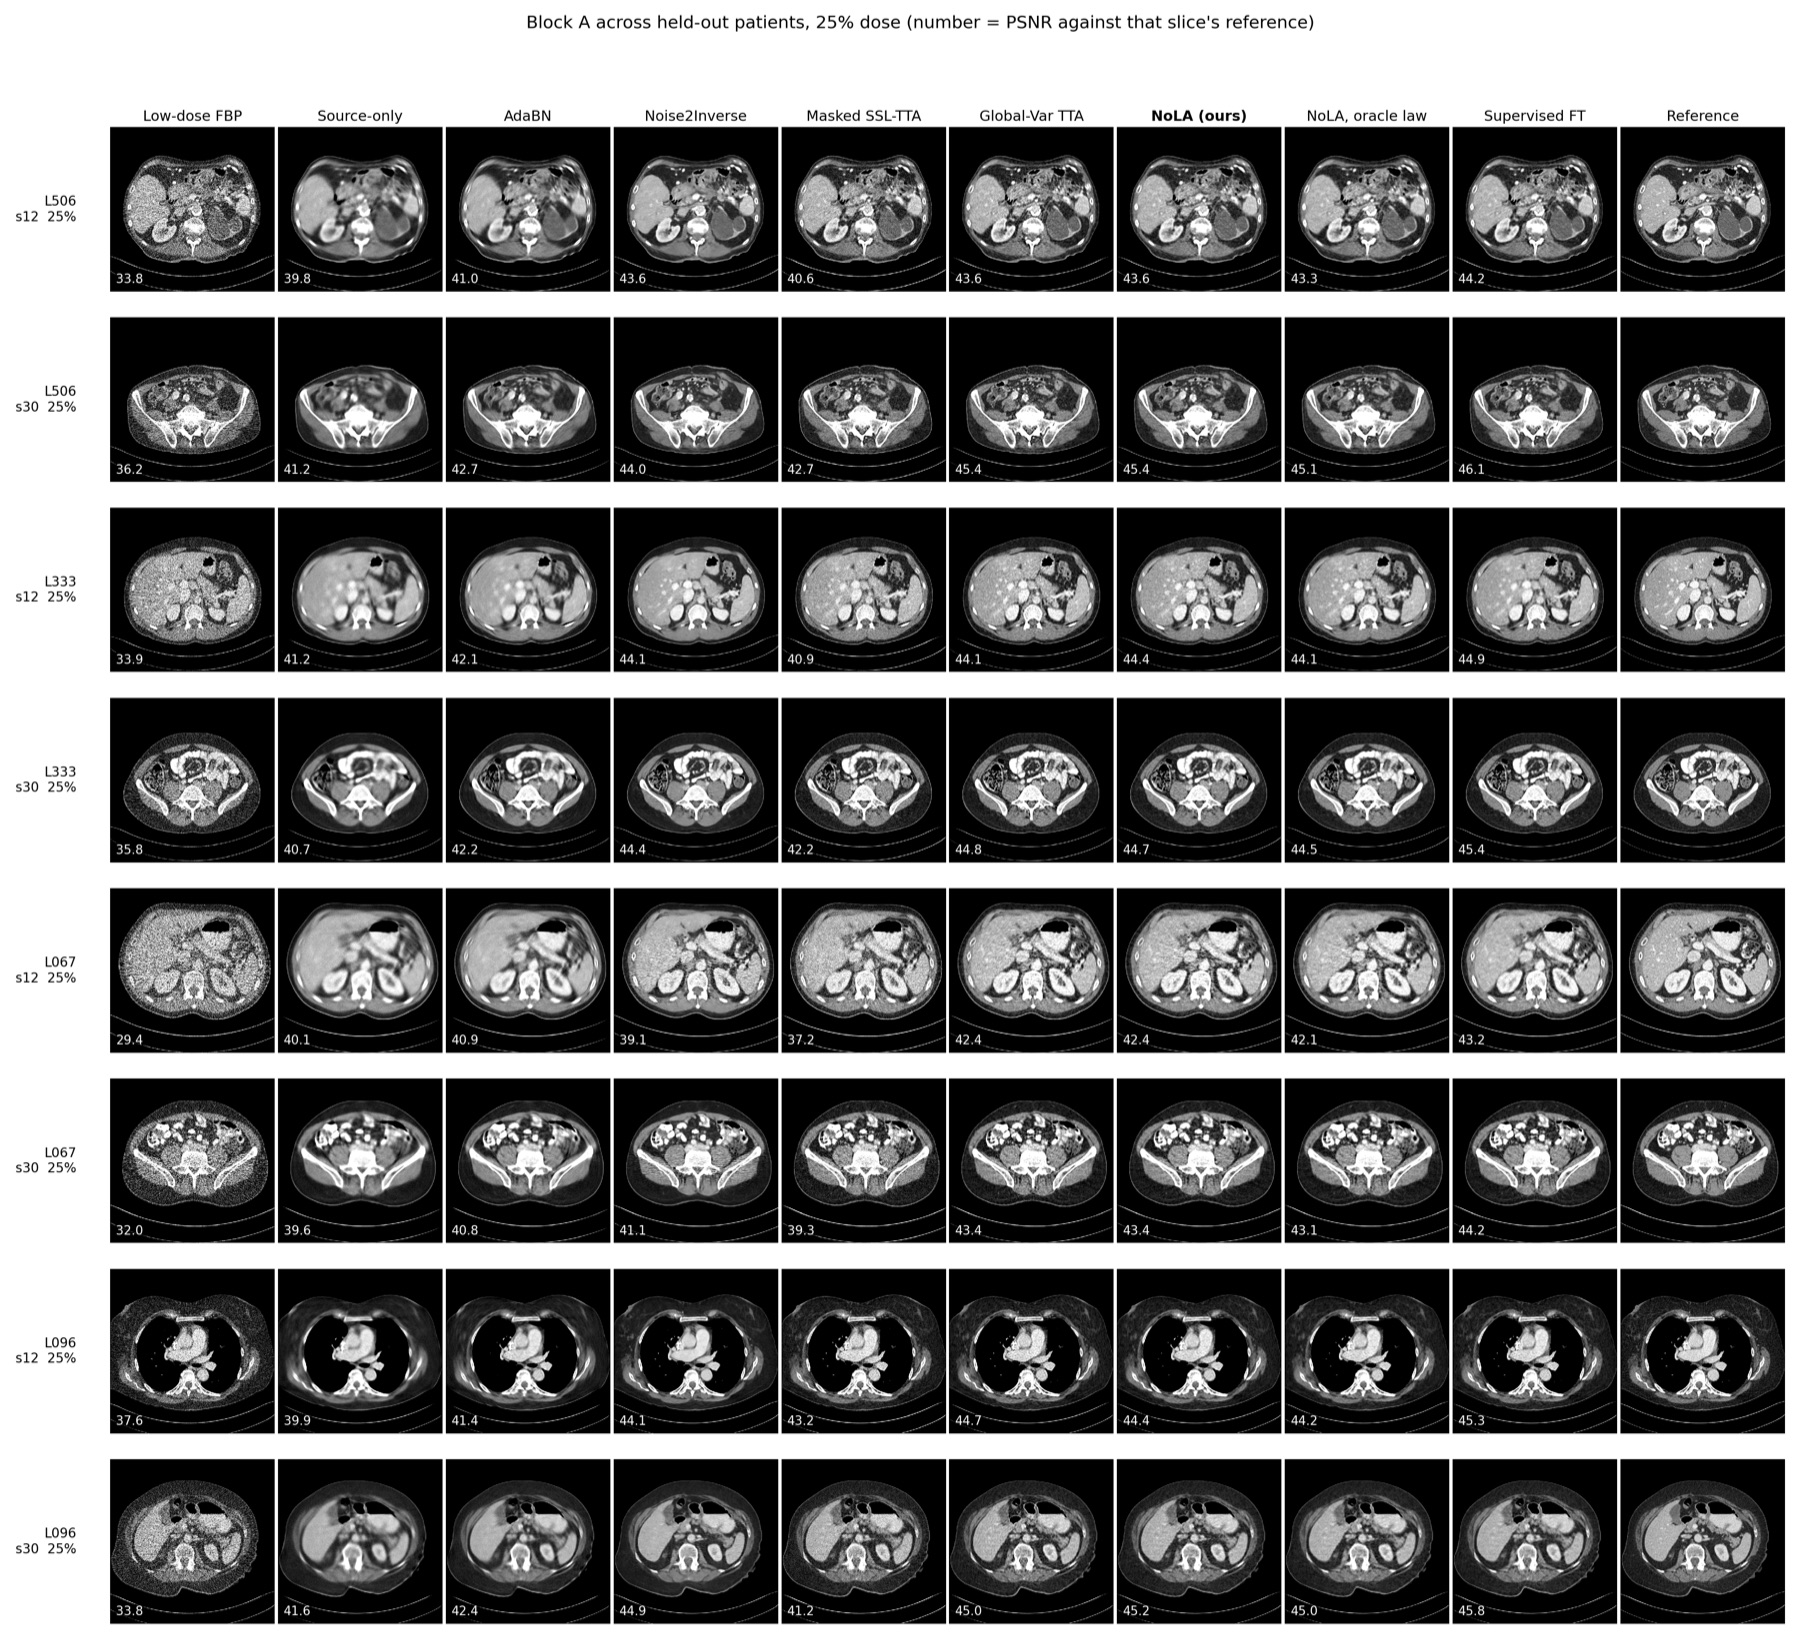
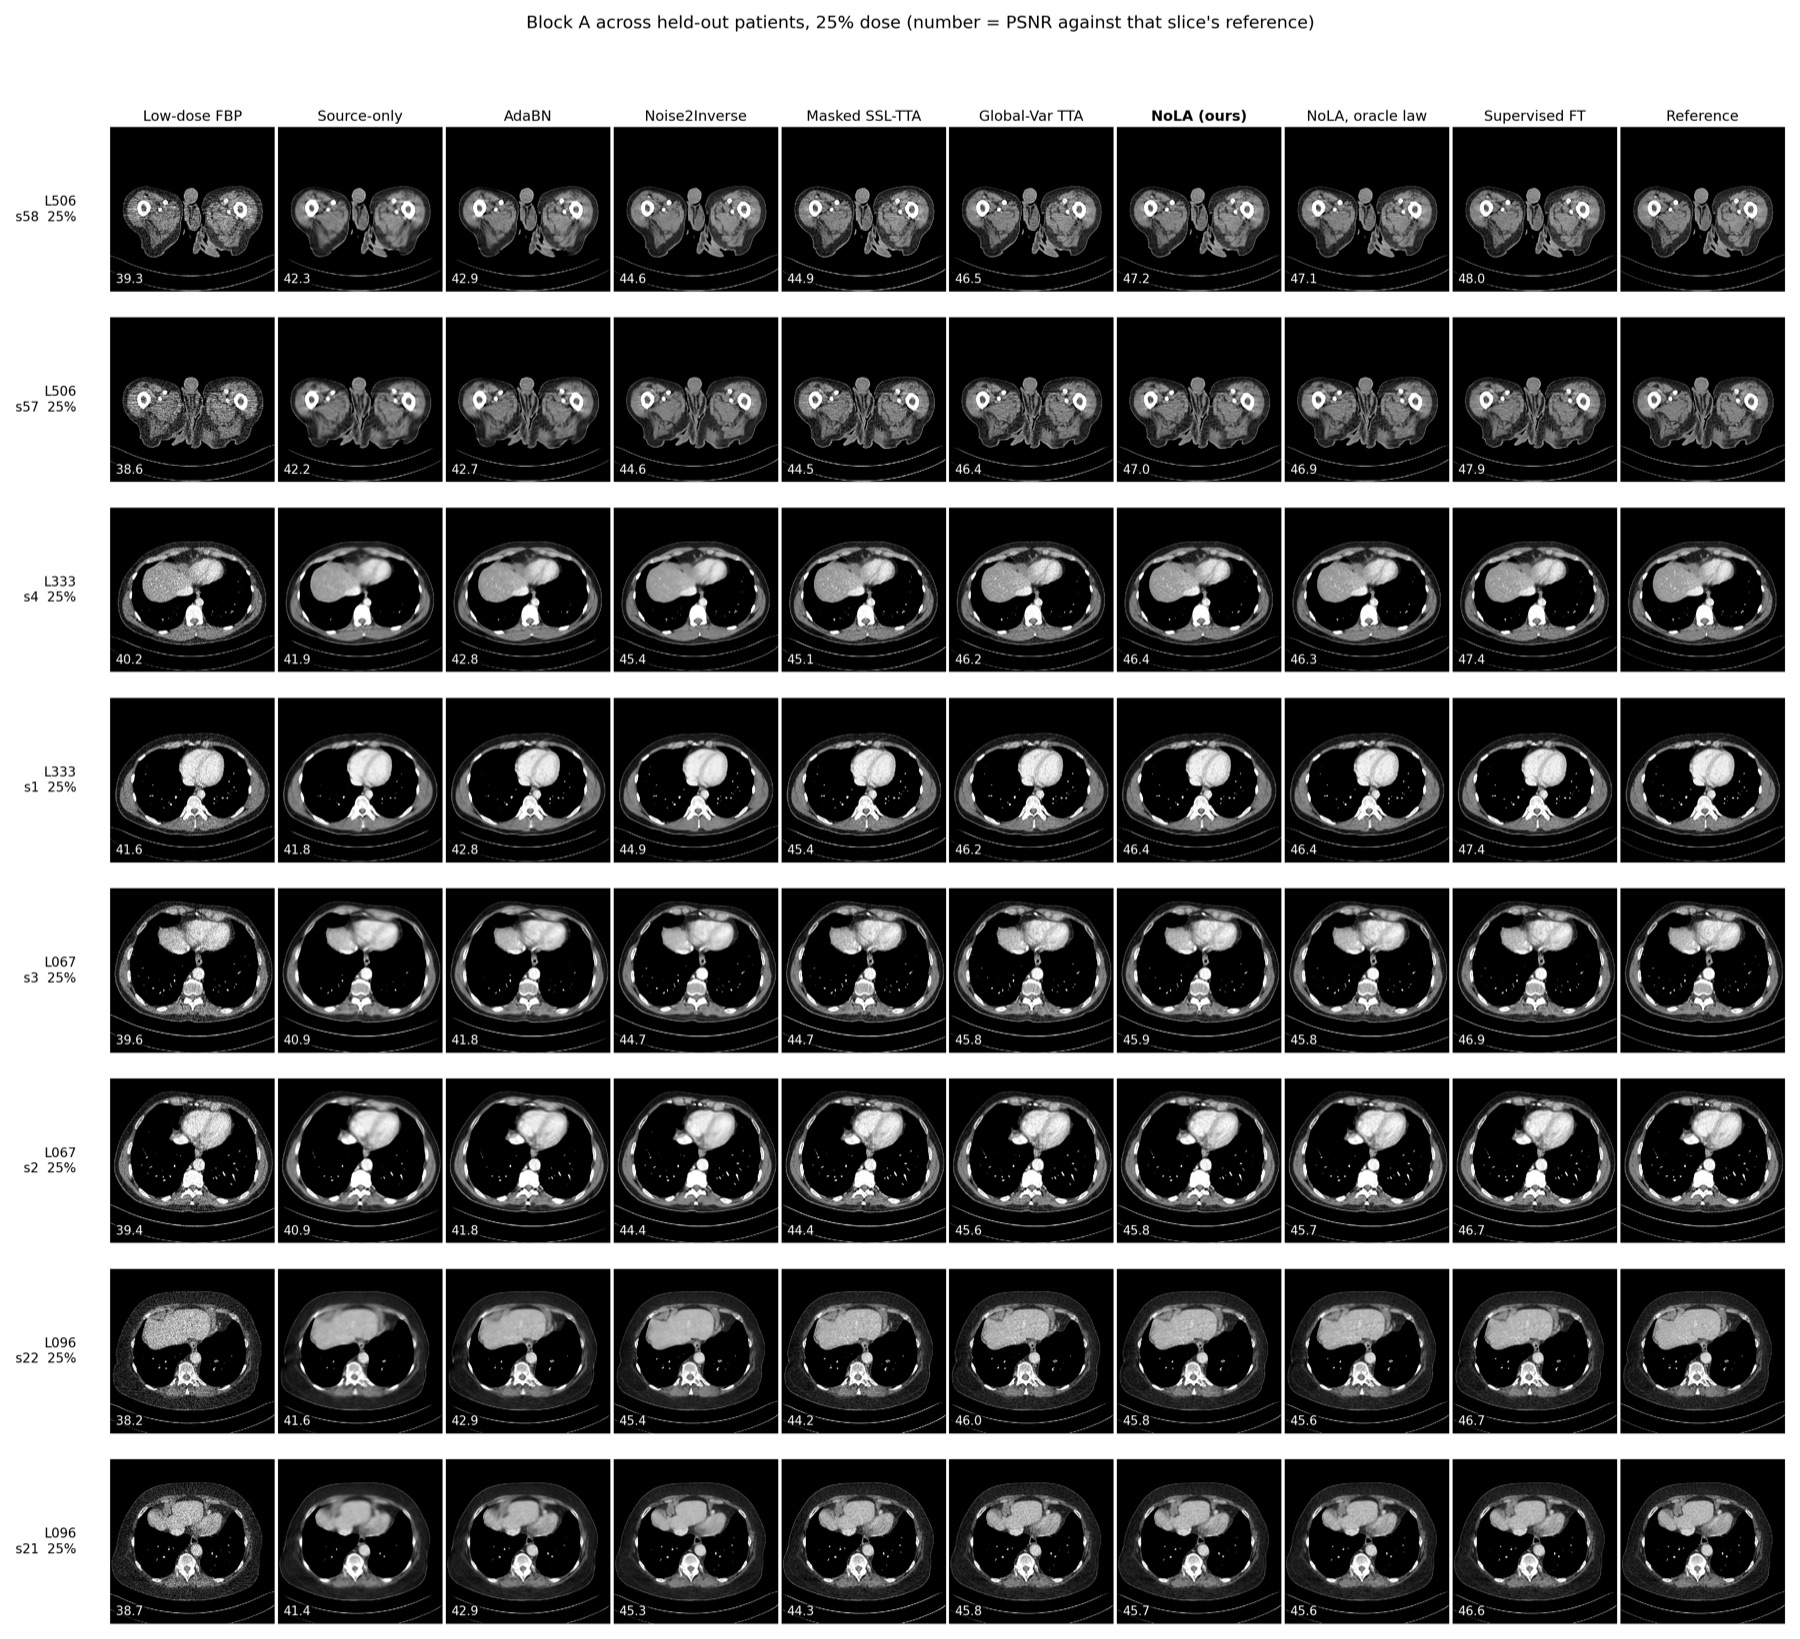
10% dose with the final objective; galleries on each patient's best slice
Adds the 10% stress test back, now run with the final (moment-only) objective
and both controls: 38.91 dB against source-only's 40.55, worse on three of
four patients, and +2.22 dB over the previous formulation on every slice.
Every label-free method degrades the source model at this dose.

Qualitative figures now show the slice where NoLA scores highest (fig3: L506
slice 58, 47.19 dB) and each patient's two best slices in the galleries. The
dose-10 gallery title was hard-coded and still read "32%, -3.9 dB" from the
previous objective after the final one measured 46%, -1.65 dB; it is now
computed from the eval files and states that rows are best-case.

diff --git a/docs/index.html b/docs/index.html
@@ -283,9 +283,9 @@ footer a{color:var(--accent)}
   noise <i>is</i> noise, whereas visible anatomy is structure the method
   deleted.</p></div>
   <figure>
-    <img src="assets/fig3_qualitative_L506_s30.jpg" alt="Qualitative comparison">
-    <figcaption><b>Cross-system transfer on one held-out slice</b> (L506, 25%
-    dose). Rows: reconstruction, magnified ROI, signed error against
+    <img src="assets/fig3_qualitative_L506_s58.jpg" alt="Qualitative comparison">
+    <figcaption><b>Cross-system transfer on one held-out slice</b> (L506, slice 58, 25%
+    dose — the slice where NoLA scores highest). Rows: reconstruction, magnified ROI, signed error against
     FBP(clean sinogram) at ±120 HU, and radial noise power spectrum in flat
     tissue. The source model and AdaBN over-smooth, leaving anatomical
     boundaries in their error maps. NoLA suppresses these structured errors and
@@ -296,8 +296,8 @@ footer a{color:var(--accent)}
   <figure>
     <img src="assets/figS1_gallery_blockA.jpg" alt="Gallery across patients">
     <figcaption><b>All methods, multiple slices and patients (25% dose).</b> Each
-    row is one held-out slice, each column one method, at a fixed soft-tissue
-    window. Per-panel numbers are that slice's PSNR against its own
+    row is one of the two slices per held-out patient on which NoLA scores
+    highest; each column one method, at a fixed soft-tissue window. Per-panel numbers are that slice's PSNR against its own
     reference.</figcaption>
   </figure>
   <figure>
@@ -385,6 +385,25 @@ footer a{color:var(--accent)}
   corrupts the structure. Among the label-free methods that match the
   <i>conditional</i> law, the two do track each other; that is the regime the
   method is proposed for.</div>
+</div></div></section>
+
+<section id="dose10"><div class="wrap"><div class="narrow">
+  <h2>The 10% dose stress test</h2>
+  <p>At 10% dose every label-free method degrades the frozen source model. The
+  final objective is the least harmful — <b>38.91 dB against source-only's
+  40.55 (−1.65 dB)</b>, worse on three of four patients, better on one — and
+  <b>+2.22 dB better than the previous formulation</b> on 100% of slices: the
+  whiteness and anchor terms were responsible for most of the earlier failure.
+  Global-Variance TTA is actively destructive here (max|ρ| 0.834, the most
+  correlated residual of any method). Only supervised fine-tuning helps
+  (+2.27 dB). The mismatch score flags this regime in advance: D = 1.05,
+  the borderline the controlled grid identified.</p>
+  <figure>
+    <img src="assets/figS3_dose10.jpg" alt="10% dose gallery">
+    <figcaption><b>10% dose, each patient's best NoLA slice.</b> Deliberately the
+    best case, and labelled as such in the title: on the typical slice NoLA is
+    below source-only at this dose.</figcaption>
+  </figure>
 </div></div></section>
 
 <section><div class="wrap"><div class="narrow">
@@ -516,7 +535,7 @@ function drawLaw(){
   vd.innerHTML="<b>Shift magnitude D = "+D.toFixed(2)+"</b> — "+
     (D>1.3?"large mismatch: adaptation is expected to help.":
      D<0.9?"low mismatch: adaptation is unreliable here and can hurt.":
-     "borderline: the grid shows mixed outcomes near D ≈ 1.")+
+     "borderline — the 10% dose case sits here at D = 1.05, and every label-free method degrades there.")+
     "<br><span style='color:var(--mut);font-size:14px'>The dashed line is the best "+
     "possible <i>rescaling</i> of the source law. It still misses the target by a "+
     "factor of "+spread.toFixed(1)+" across the signal range, because rescaling "+
@@ -538,7 +557,7 @@ function drawGrid(){
   [0.5,1,1.5,2,2.5].forEach(g=>{const xx=X(g);
     s.appendChild(el("line",{x1:xx,x2:xx,y1:T,y2:H-B,class:"gr"}));
     const t=el("text",{x:xx,y:H-B+16,class:"tx","text-anchor":"middle"});t.textContent=g;s.appendChild(t);});
-  [[2.09,"25% dose"]].forEach(([d,lab])=>{
+  [[2.09,"25% dose"],[1.05,"10% dose"]].forEach(([d,lab])=>{
     s.appendChild(el("line",{x1:X(d),x2:X(d),y1:T,y2:H-B,stroke:OURS,
       "stroke-width":1,"stroke-dasharray":"4 4",opacity:.55}));
     const t=el("text",{x:X(d)+5,y:T+12,class:"tx",fill:OURS});t.textContent=lab;s.appendChild(t);});

diff --git a/docs/index.template.html b/docs/index.template.html
@@ -283,9 +283,9 @@ footer a{color:var(--accent)}
   noise <i>is</i> noise, whereas visible anatomy is structure the method
   deleted.</p></div>
   <figure>
-    <img src="assets/fig3_qualitative_L506_s30.jpg" alt="Qualitative comparison">
-    <figcaption><b>Cross-system transfer on one held-out slice</b> (L506, 25%
-    dose). Rows: reconstruction, magnified ROI, signed error against
+    <img src="assets/fig3_qualitative_L506_s58.jpg" alt="Qualitative comparison">
+    <figcaption><b>Cross-system transfer on one held-out slice</b> (L506, slice 58, 25%
+    dose — the slice where NoLA scores highest). Rows: reconstruction, magnified ROI, signed error against
     FBP(clean sinogram) at ±120 HU, and radial noise power spectrum in flat
     tissue. The source model and AdaBN over-smooth, leaving anatomical
     boundaries in their error maps. NoLA suppresses these structured errors and
@@ -296,8 +296,8 @@ footer a{color:var(--accent)}
   <figure>
     <img src="assets/figS1_gallery_blockA.jpg" alt="Gallery across patients">
     <figcaption><b>All methods, multiple slices and patients (25% dose).</b> Each
-    row is one held-out slice, each column one method, at a fixed soft-tissue
-    window. Per-panel numbers are that slice's PSNR against its own
+    row is one of the two slices per held-out patient on which NoLA scores
+    highest; each column one method, at a fixed soft-tissue window. Per-panel numbers are that slice's PSNR against its own
     reference.</figcaption>
   </figure>
   <figure>
@@ -385,6 +385,25 @@ footer a{color:var(--accent)}
   corrupts the structure. Among the label-free methods that match the
   <i>conditional</i> law, the two do track each other; that is the regime the
   method is proposed for.</div>
+</div></div></section>
+
+<section id="dose10"><div class="wrap"><div class="narrow">
+  <h2>The 10% dose stress test</h2>
+  <p>At 10% dose every label-free method degrades the frozen source model. The
+  final objective is the least harmful — <b>38.91 dB against source-only's
+  40.55 (−1.65 dB)</b>, worse on three of four patients, better on one — and
+  <b>+2.22 dB better than the previous formulation</b> on 100% of slices: the
+  whiteness and anchor terms were responsible for most of the earlier failure.
+  Global-Variance TTA is actively destructive here (max|ρ| 0.834, the most
+  correlated residual of any method). Only supervised fine-tuning helps
+  (+2.27 dB). The mismatch score flags this regime in advance: D = 1.05,
+  the borderline the controlled grid identified.</p>
+  <figure>
+    <img src="assets/figS3_dose10.jpg" alt="10% dose gallery">
+    <figcaption><b>10% dose, each patient's best NoLA slice.</b> Deliberately the
+    best case, and labelled as such in the title: on the typical slice NoLA is
+    below source-only at this dose.</figcaption>
+  </figure>
 </div></div></section>
 
 <section><div class="wrap"><div class="narrow">
@@ -516,7 +535,7 @@ function drawLaw(){
   vd.innerHTML="<b>Shift magnitude D = "+D.toFixed(2)+"</b> — "+
     (D>1.3?"large mismatch: adaptation is expected to help.":
      D<0.9?"low mismatch: adaptation is unreliable here and can hurt.":
-     "borderline: the grid shows mixed outcomes near D ≈ 1.")+
+     "borderline — the 10% dose case sits here at D = 1.05, and every label-free method degrades there.")+
     "<br><span style='color:var(--mut);font-size:14px'>The dashed line is the best "+
     "possible <i>rescaling</i> of the source law. It still misses the target by a "+
     "factor of "+spread.toFixed(1)+" across the signal range, because rescaling "+
@@ -538,7 +557,7 @@ function drawGrid(){
   [0.5,1,1.5,2,2.5].forEach(g=>{const xx=X(g);
     s.appendChild(el("line",{x1:xx,x2:xx,y1:T,y2:H-B,class:"gr"}));
     const t=el("text",{x:xx,y:H-B+16,class:"tx","text-anchor":"middle"});t.textContent=g;s.appendChild(t);});
-  [[2.09,"25% dose"]].forEach(([d,lab])=>{
+  [[2.09,"25% dose"],[1.05,"10% dose"]].forEach(([d,lab])=>{
     s.appendChild(el("line",{x1:X(d),x2:X(d),y1:T,y2:H-B,stroke:OURS,
       "stroke-width":1,"stroke-dasharray":"4 4",opacity:.55}));
     const t=el("text",{x:X(d)+5,y:T+12,class:"tx",fill:OURS});t.textContent=lab;s.appendChild(t);});

diff --git a/docs/all_metrics_dose10.md b/docs/all_metrics_dose10.md
@@ -1,0 +1,62 @@
+### Dose 10% — all metrics
+232 slices from 4 held-out patients; mean ± s.d. **across patients**. Bold = best in column.
+
+**Primary — vs FBP(clean\_sinogram), and the sinogram itself**
+
+| Method | PSNR$_{op}$ | SSIM$_{op}$ | sino NRMSE |
+|---|---|---|---|
+| FBP (no denoising) | 26.75 ± 3.09 | 0.5173 ± 0.1166 | 0.0426 ± 0.0121 |
+| B0 source-only | 40.55 ± 0.77 | 0.9588 ± 0.0069 | 0.0074 ± 0.0002 |
+| AdaBN | 38.59 ± 3.45 | 0.9248 ± 0.0571 | 0.0115 ± 0.0065 |
+| Noise2Inverse (K=2) | 36.96 ± 3.94 | 0.8870 ± 0.0691 | -- |
+| Masked SSL-TTA | 36.38 ± 2.63 | 0.8392 ± 0.0724 | 0.0148 ± 0.0045 |
+| Global-variance TTA | 37.40 ± 2.62 | 0.8892 ± 0.0539 | 0.0155 ± 0.0024 |
+| NoLA (ours, $L_{mom}$ only) | 38.91 ± 2.73 | 0.9152 ± 0.0412 | 0.0131 ± 0.0047 |
+|   $+$whiteness | 38.31 ± 2.52 | 0.9076 ± 0.0428 | 0.0139 ± 0.0043 |
+|   $+$anchor | 38.29 ± 2.57 | 0.9130 ± 0.0376 | 0.0143 ± 0.0045 |
+|   $+$whiteness $+$anchor | 36.68 ± 3.24 | 0.8506 ± 0.0844 | 0.0150 ± 0.0049 |
+|   whiteness$+$anchor, no moment | 40.40 ± 1.75 | 0.9397 ± 0.0212 | 0.0116 ± 0.0034 |
+| NoLA, oracle law | 38.35 ± 2.50 | 0.9080 ± 0.0425 | 0.0136 ± 0.0041 |
+| Supervised FT | **42.83 ± 1.06** | **0.9691 ± 0.0059** | **0.0055 ± 0.0004** |
+|   $-$orthogonality (old full) | 36.08 ± 3.73 | 0.8386 ± 0.0967 | 0.0165 ± 0.0064 |
+
+**Secondary — vs image\_hu (the scanner reconstruction)**
+
+| Method | PSNR | SSIM | MS-SSIM | VIF | GMSD | LPIPS | DISTS |
+|---|---|---|---|---|---|---|---|
+| FBP (no denoising) | 26.63 ± 3.05 | 0.4895 ± 0.1120 | 0.8539 ± 0.0633 | 0.4340 ± 0.0589 | 0.1466 ± 0.0469 | 0.4939 ± 0.0952 | 0.3491 ± 0.0389 |
+| B0 source-only | 38.55 ± 0.58 | 0.9260 ± 0.0071 | 0.9794 ± 0.0044 | 0.4028 ± 0.0251 | 0.0425 ± 0.0039 | 0.2222 ± 0.0445 | 0.2060 ± 0.0095 |
+| AdaBN | 36.80 ± 2.95 | 0.8940 ± 0.0553 | 0.9668 ± 0.0243 | 0.4100 ± 0.0307 | 0.0600 ± 0.0326 | 0.2273 ± 0.0644 | 0.2039 ± 0.0256 |
+| Noise2Inverse (K=2) | 35.68 ± 3.38 | 0.8612 ± 0.0654 | 0.9568 ± 0.0275 | 0.4133 ± 0.0297 | 0.0707 ± 0.0341 | 0.2631 ± 0.0743 | 0.2121 ± 0.0318 |
+| Masked SSL-TTA | 35.72 ± 2.42 | 0.8147 ± 0.0716 | 0.9669 ± 0.0154 | **0.4919 ± 0.0403** | 0.0361 ± 0.0111 | 0.3052 ± 0.0961 | 0.2405 ± 0.0369 |
+| Global-variance TTA | 35.98 ± 2.09 | 0.8599 ± 0.0507 | 0.9615 ± 0.0191 | 0.4119 ± 0.0252 | 0.0654 ± 0.0234 | 0.2547 ± 0.0728 | 0.2099 ± 0.0297 |
+| NoLA (ours, $L_{mom}$ only) | 37.43 ± 2.16 | 0.8909 ± 0.0386 | 0.9658 ± 0.0168 | 0.4724 ± 0.0339 | 0.0592 ± 0.0220 | 0.2112 ± 0.0686 | 0.1806 ± 0.0293 |
+|   $+$whiteness | 36.99 ± 2.04 | 0.8826 ± 0.0411 | 0.9633 ± 0.0171 | 0.4576 ± 0.0324 | 0.0621 ± 0.0199 | 0.2334 ± 0.0684 | 0.2004 ± 0.0264 |
+|   $+$anchor | 37.01 ± 2.10 | 0.8889 ± 0.0356 | 0.9609 ± 0.0185 | 0.4774 ± 0.0335 | 0.0687 ± 0.0233 | 0.2073 ± 0.0605 | 0.1801 ± 0.0279 |
+|   $+$whiteness $+$anchor | 35.49 ± 2.76 | 0.8250 ± 0.0828 | 0.9569 ± 0.0231 | 0.4500 ± 0.0378 | 0.0590 ± 0.0200 | 0.2667 ± 0.0861 | 0.2109 ± 0.0333 |
+|   whiteness$+$anchor, no moment | 38.72 ± 1.32 | 0.9133 ± 0.0196 | 0.9776 ± 0.0083 | 0.4668 ± 0.0327 | 0.0339 ± 0.0089 | 0.1865 ± 0.0566 | 0.1716 ± 0.0211 |
+| NoLA, oracle law | 37.02 ± 2.02 | 0.8828 ± 0.0407 | 0.9638 ± 0.0170 | 0.4592 ± 0.0328 | 0.0620 ± 0.0203 | 0.2331 ± 0.0679 | 0.2005 ± 0.0262 |
+| Supervised FT | **40.33 ± 0.73** | **0.9392 ± 0.0066** | **0.9853 ± 0.0036** | 0.4789 ± 0.0308 | **0.0274 ± 0.0047** | **0.1615 ± 0.0408** | **0.1601 ± 0.0158** |
+|   $-$orthogonality (old full) | 34.92 ± 3.22 | 0.8135 ± 0.0944 | 0.9518 ± 0.0280 | 0.4471 ± 0.0402 | 0.0657 ± 0.0251 | 0.2707 ± 0.0911 | 0.2140 ± 0.0364 |
+
+**Texture — vs a full-dose acquisition through this operator**
+
+| Method | NPS shape | NPS power |
+|---|---|---|
+| FBP (no denoising) | 0.584 ± 0.082 | 25.845 ± 10.375 |
+| B0 source-only | **0.584 ± 0.065** | 0.135 ± 0.023 |
+| AdaBN | 0.714 ± 0.096 | 1.953 ± 2.779 |
+| Noise2Inverse (K=2) | 0.786 ± 0.091 | 3.462 ± 2.597 |
+| Masked SSL-TTA | 0.693 ± 0.065 | 1.668 ± 0.484 |
+| Global-variance TTA | 0.731 ± 0.098 | 1.750 ± 0.813 |
+| NoLA (ours, $L_{mom}$ only) | 1.041 ± 0.119 | 1.601 ± 0.523 |
+|   $+$whiteness | 0.832 ± 0.082 | 1.497 ± 0.395 |
+|   $+$anchor | 1.159 ± 0.082 | 1.933 ± 0.519 |
+|   $+$whiteness $+$anchor | 0.722 ± 0.129 | 2.545 ± 0.856 |
+|   whiteness$+$anchor, no moment | 0.762 ± 0.037 | 0.538 ± 0.039 |
+| NoLA, oracle law | 0.828 ± 0.080 | 1.492 ± 0.392 |
+| Supervised FT | 0.902 ± 0.123 | 0.220 ± 0.066 |
+|   $-$orthogonality (old full) | 0.717 ± 0.132 | 3.229 ± 1.327 |
+
+Notes. The three blocks use **different references** and must not be read across: PSNR$_{op}$/SSIM$_{op}$ isolate denoising error; the secondary block is comparable with published numbers but also charges every method for the B30-versus-ramp kernel mismatch; NPS power is a magnitude, not a quality score — the ideal output is the clean image, whose ratio is near 0, while 1.0 means as noisy as a full-dose scan, so no 'best' is marked for it.
+GMSD, LPIPS and DISTS are distances (lower is better); VIF and the SSIM family are similarities (higher is better).
